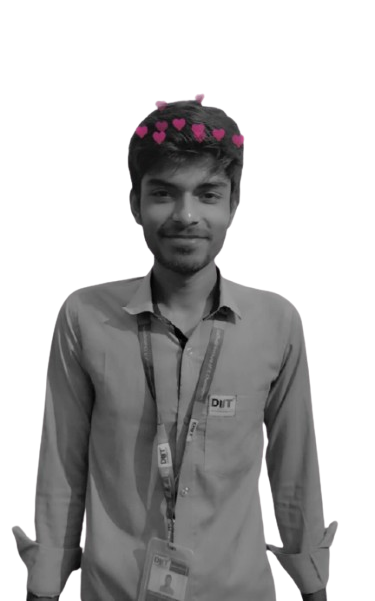
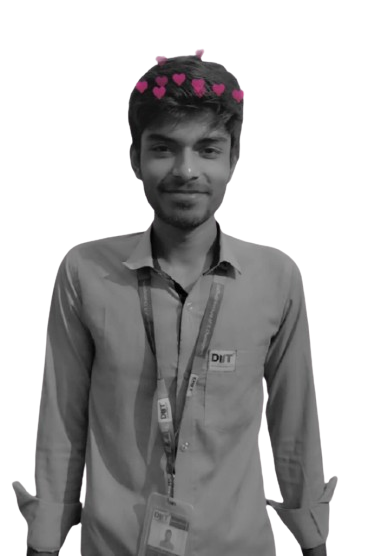
website editing

diff --git a/index.html b/index.html
@@ -2,10 +2,12 @@
 <html>
       <head>
 	<meta charset="utf-8">
-	<meta name="viewport" content="width=device-width, initial-scale=1">
+	
+
+      <meta name="viewport" content="width=device-width, initial-scale=1.0, user-scalable=no">
 	          <title>Abir Hossain Portfolio</title>
 	<link rel="stylesheet" type="text/css" href="style.css">
-      <link rel="stylesheet" type="text/css" href="https://cdnjs.cloudflare.com/ajax/libs/font-awesome/6.7.2/css/all.min.css">
+      <link rel="stylesheet" type="text/css" href="https://cdnjs.cloudflare.com/ajax/libs/font-awesome/6.7.2/css/all.min.css"> 
        </head>
 
        <body>
@@ -24,7 +26,7 @@
                   	     	    </ul>
                   	     	 </div>
                                <span onclick="openMenu()">Menu</span>
-                                <img src="image/123.png"class="profile-image">  
+                                <img src="image/2.png"class="profile-image">  
                   	  </nav>  
 
                         	    	
@@ -36,7 +38,7 @@
                                     
                                     👉 If you need a professional <br>🏆 and fully responsive 🌐 website, you’re in the right place!
                                     I specialize in modern UI/UX design 🎨, <br> web performance optimization ⚡, and full-stack development 🛠.
-                                    <br><br>
+                                    <br>
                               <a href="#">Hear Me</a> &nbsp &nbsp <a href="#">About Me</a>
                               
                          </div>

diff --git a/style.css b/style.css
@@ -54,13 +54,15 @@ text-align: right;
 .menu ul li:hover::after{
 	width: 100%;
 }
-.profile-image {
-	width: 36%;
+ .profile-image {
+	width: 27%;
 	position:absolute;
-	top: 43%;
-	left: 51%;
+	top: 44%;
+	left: 57%;
 	transform: translate(25%,-30%);
-  }
+	max-width: 100%;
+	 height: auto;
+  } 
 
    .tt{
 	width: 60%;
@@ -90,19 +92,20 @@ nav span{
 	display: none;
 }
 
-@media (max-width:700px){.tt{
+   @media (max-width: 768px) { 
+.tt{
 	width: 80%;
 	color: pink;
 	position: absolute;
 	top: 50%;
-	left: 15%;
+	left: 3%;
 	transform: translate(-5%,0%);
 	text-align: center;
 	
 	
 	}
 .tt h1{
-	font-size: 30px;
+	font-size: 25px;
 
  }
 
@@ -135,16 +138,20 @@ nav span{
  .menu ul{
  	padding: 20px
 
- }
+ } /* //position: relative; display: block; margin: auto; max-width: 60%;*/
  .profile-image {
-	width: 53%;
+	width: 42%;
+	height: auto;
+	object-fit: cover;
 	position:absolute;
-	top: 16%;
-	left: 3%;
+	top: 18%;
+	left: 22%;
 	transform: translate(25%,-30%);
 }
 
     }
+
+
 
 
  /*----------About Me--------*/
@@ -608,6 +615,12 @@ nav span{
 	display:block;
 transition: all 0.5 ease;
 }
+
+
+/*  .fotter-collum ul li a:hover {
+    color: #E91E63;
+    transform: translateX(5px);
+} */
 .fotter-collum ul li:hover{
 	padding-left: 8px;
 	color: #ffe;
